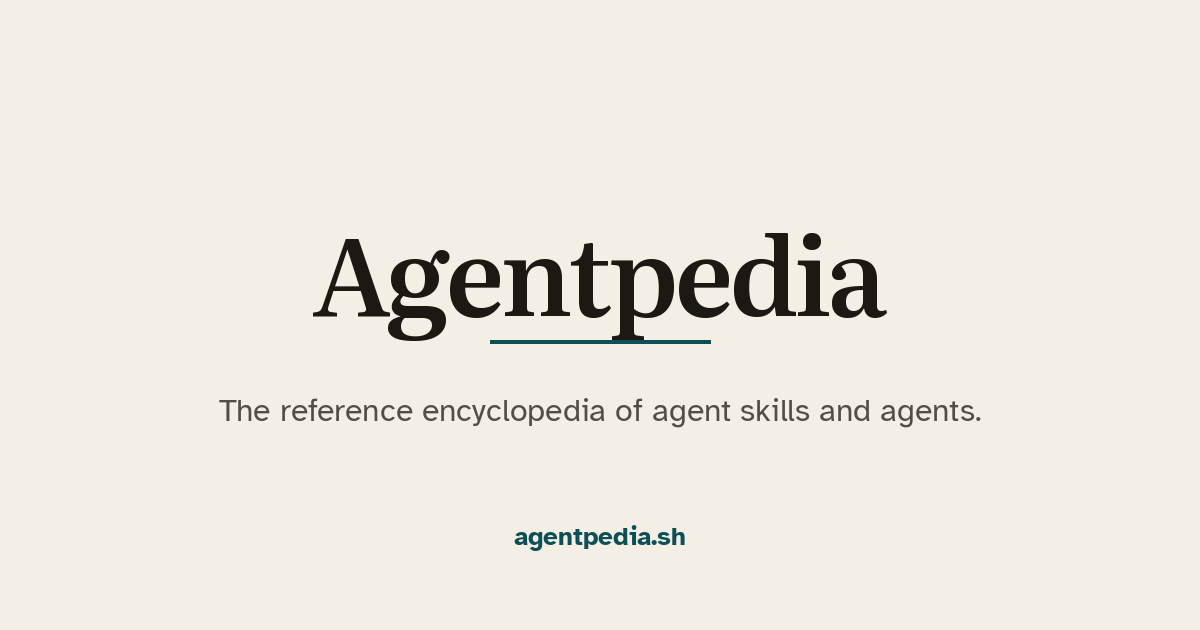
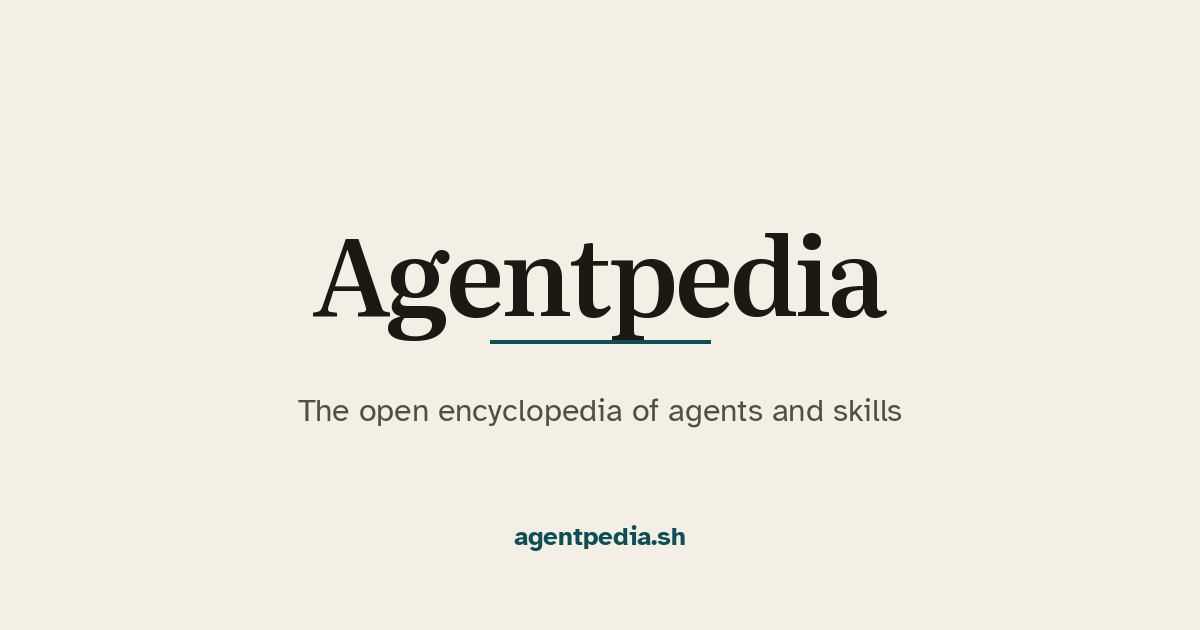
Use the open encyclopedia tagline.
The hero, metadata, manifest, README, and social image now say "The open encyclopedia of agents and skills".

Changed region(s): [[0.185, 0.6333, 0.8325, 0.6937]]

diff --git a/src/app/layout.tsx b/src/app/layout.tsx
@@ -25,7 +25,7 @@ const mono = Geist_Mono({
   display: "swap",
 });
 
-const description = `${SITE_TAGLINE} Every entry is linted before it is listed.`;
+const description = `${SITE_TAGLINE}. Every entry is linted before it is listed.`;
 
 const themeScript = `(function(){try{var t=localStorage.getItem("encyclopedia-theme");var d=t==="dark"||(t!=="light"&&matchMedia("(prefers-color-scheme: dark)").matches);document.documentElement.classList.toggle("dark",d);}catch(e){}})();`;
 

diff --git a/src/lib/site.ts b/src/lib/site.ts
@@ -4,7 +4,7 @@ import siteConfig from "../../config/site.json";
 /** Display name. The site reads this string. */
 export const SITE_NAME = "Agentpedia";
 
-export const SITE_TAGLINE = "The reference encyclopedia of agent skills and agents.";
+export const SITE_TAGLINE = "The open encyclopedia of agents and skills";
 
 export const REPO_URL = "https://github.com/brandononchain/agentpedia";
 

diff --git a/src/components/site-footer.tsx b/src/components/site-footer.tsx
@@ -9,7 +9,7 @@ export function SiteFooter() {
         <div>
           <p className="foot-name">{SITE_NAME}</p>
           <p className="quiet" style={{ marginTop: "0.4rem", maxWidth: "28rem" }}>
-            {SITE_TAGLINE} Maintained by{" "}
+            {SITE_TAGLINE}. Maintained by{" "}
             <a href={catalog.owner.site}>{catalog.owner.name}</a>.
           </p>
         </div>

diff --git a/PRODUCT.md b/PRODUCT.md
@@ -14,11 +14,11 @@ Inferred from the repository and Brandon’s redesign request. No separate inter
 
 ## Product Purpose
 
-A reference encyclopedia of Agent Skills and the agents that bundle them. Every entry is linted before it ships, and the page shows the score. Success is finding the right entry, reading it, and copying an install snippet without guessing whether the file is safe to use.
+The open encyclopedia of agents and skills. Every entry is linted before it ships, and the page shows the score. Success is finding the right entry, reading it, and copying an install snippet without guessing whether the file is safe to use.
 
 ## Positioning
 
-The reference encyclopedia for agent skills and agents. Neighboring directories can list files. This one refuses to ship an entry that has a lint error or a warning, and it presents each entry as an article with its agent, shelf, score, and install path.
+The open encyclopedia of agents and skills. Neighboring directories can list files. This one refuses to ship an entry that has a lint error or a warning, and it presents each entry as an article with its agent, shelf, score, and install path.
 
 ## Operating Context
 
@@ -35,7 +35,7 @@ The catalog is generated from `skills/` and `agents/` by `tools/build_index.py`.
 
 ## Brand Commitments
 
-The display name is Agentpedia, set in `src/lib/site.ts`. The site is the reference encyclopedia of agent skills and agents. Brandon asked for structural cues from a general encyclopedia portal and a scholarly text library, and forbade copying their logos, wordmarks, exact layouts, or assets. Visual constraints he set: warm off-white paper, near-black ink, one restrained accent, a serif for reading, a sans for chrome, dark mode, and WCAG AA.
+The display name is Agentpedia, set in `src/lib/site.ts`. The site is the open encyclopedia of agents and skills. Brandon asked for structural cues from a general encyclopedia portal and a scholarly text library, and forbade copying their logos, wordmarks, exact layouts, or assets. Visual constraints he set: warm off-white paper, near-black ink, one restrained accent, a serif for reading, a sans for chrome, dark mode, and WCAG AA.
 
 ## Evidence on Hand
 

diff --git a/README.md b/README.md
@@ -5,7 +5,7 @@
 [![lint errors](https://img.shields.io/badge/lint_errors-0-ff5a36?style=flat-square&labelColor=10110e)](https://github.com/brandononchain/agentpedia/actions)
 [![license](https://img.shields.io/badge/license-Apache--2.0-c9c0ae?style=flat-square&labelColor=10110e)](LICENSE)
 
-Agentpedia is the reference encyclopedia of [Agent Skills](https://agentskills.io/specification) and the agents that bundle them. The display name is `SITE_NAME` in `src/lib/site.ts`. The format is now a project of the [Agentic AI Foundation](https://aaif.io/projects/agent-skills) at the Linux Foundation.
+Agentpedia is the open encyclopedia of agents and skills. The display name is `SITE_NAME` in `src/lib/site.ts`. Entries follow the [Agent Skills](https://agentskills.io/specification) format, now a project of the [Agentic AI Foundation](https://aaif.io/projects/agent-skills) at the Linux Foundation.
 
 Most published skills do not meet their own authoring rules. In [From Anatomy to Smells](https://arxiv.org/abs/2607.01456), Hong, Imani, and Ahmed at UC Irvine studied 238 real `SKILL.md` files. 237 of them — over 99 percent — had at least one skill smell, and those smells rarely got fixed later.
 

diff --git a/DESIGN.md b/DESIGN.md
@@ -1,6 +1,6 @@
 ---
 name: Agentpedia
-description: The reference encyclopedia of agent skills and agents.
+description: The open encyclopedia of agents and skills.
 colors:
   verdigris: "#0e4f57"
   verdigris-dark: "#9fd4ce"
